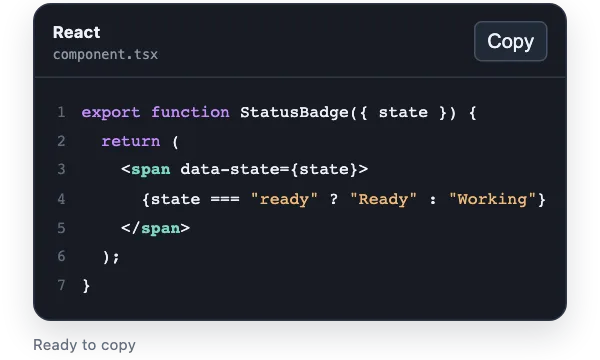
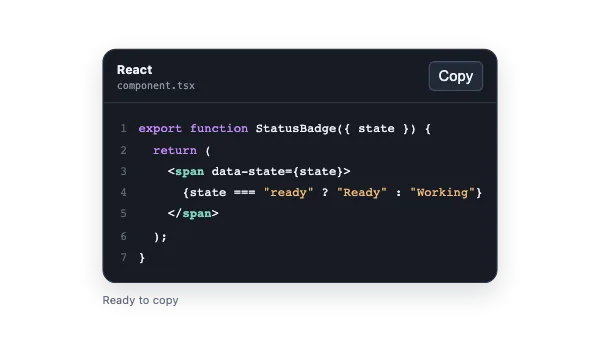
Balance dictionary specimen previews

diff --git a/demos/duration-picker.html b/demos/duration-picker.html
@@ -8,6 +8,7 @@
 </div>
 <style>
 .demo-duration-picker{--d-ink:#252932;--d-muted:#6b7280;--d-line:#dfe3e8;--d-accent:#3467d6;font:12px/1.4 system-ui,-apple-system,"PingFang SC","Microsoft YaHei",sans-serif;color:var(--d-ink);width:100%;max-width:390px}.demo-duration-picker *{box-sizing:border-box}.duration-card{padding:16px;border:1px solid var(--d-line);border-radius:12px;background:#fff;box-shadow:0 8px 20px rgba(30,40,60,.06)}.duration-head{display:flex;justify-content:space-between;align-items:baseline;margin-bottom:14px}.duration-head strong{font-size:13px}.duration-head span{color:var(--d-muted);font-size:10px}.duration-fields{display:flex;align-items:end;gap:8px}.duration-fields label{display:grid;gap:5px;flex:1}.duration-fields label>span{color:var(--d-muted);font-size:10px}.duration-fields input{width:100%;height:40px;padding:0 10px;border:1px solid var(--d-line);border-radius:8px;background:#fafbfc;color:var(--d-ink);font:600 17px/1 ui-monospace,SFMono-Regular,Menlo,monospace;font-variant-numeric:tabular-nums}.duration-fields input:focus-visible{outline:0;border-color:var(--d-accent);box-shadow:0 0 0 3px rgba(52,103,214,.15)}.duration-colon{padding-bottom:10px;color:var(--d-muted);font-weight:700}.duration-presets{display:flex;gap:6px;margin-top:12px}.duration-presets button{border:1px solid var(--d-line);border-radius:6px;background:#fff;color:var(--d-muted);padding:6px 10px;font:600 10px inherit;cursor:pointer;transition:background .16s,color .16s,border-color .16s}.duration-presets button:hover,.duration-presets button[aria-pressed=true]{border-color:#b7c8f3;background:#f3f6ff;color:var(--d-accent)}.duration-presets button:focus-visible{outline:2px solid var(--d-accent);outline-offset:2px}.duration-summary{display:flex;justify-content:space-between;gap:8px;margin-top:14px;padding-top:12px;border-top:1px solid #edf0f3;color:var(--d-muted);font-size:10px}.duration-summary strong{color:var(--d-ink);font-size:11px;font-variant-numeric:tabular-nums}@media(prefers-reduced-motion:reduce){.duration-presets button{transition:none}}
+@media (max-height:260px){.demo-duration-picker{transform:scale(.82);transform-origin:center;}}
 </style>
 <script>
 (function(){var root=document.currentScript.parentElement.querySelector('.demo-duration-picker'),h=root.querySelector('.dur-hours'),m=root.querySelector('.dur-minutes'),out=root.querySelector('.duration-summary strong'),presets=[].slice.call(root.querySelectorAll('.duration-presets button'));function zh(){return document.documentElement.getAttribute('data-lang-mode')!=='en'}function render(){var hours=Math.max(0,Math.min(12,parseInt(h.value||0,10))),mins=Math.max(0,Math.min(59,parseInt(m.value||0,10)));var total=hours*60+mins;h.value=Math.floor(total/60);m.value=total%60;out.textContent=zh()?(total===0?'0 分钟':(Math.floor(total/60)?Math.floor(total/60)+' 小时'+(total%60?' '+total%60+' 分钟':''):total+' 分钟')):(total===0?'0 minutes':(Math.floor(total/60)?Math.floor(total/60)+' hr'+(Math.floor(total/60)>1?'s':'')+(total%60?' '+total%60+' min':''):total+' minutes'));presets.forEach(function(p){p.setAttribute('aria-pressed',Number(p.dataset.min)===total?'true':'false')})} [h,m].forEach(function(i){i.addEventListener('input',render);i.addEventListener('blur',render)});presets.forEach(function(p){p.addEventListener('click',function(){var total=Number(p.dataset.min);h.value=Math.floor(total/60);m.value=total%60;render()})});document.addEventListener('learnui:languagechange',render);render()})();

diff --git a/demos/code-block.html b/demos/code-block.html
@@ -9,6 +9,7 @@
 </div>
 <style>
 .demo-code-block{--k-ink:#edf1f7;--k-muted:#8b96a8;--k-line:#303746;--k-accent:#77a7ff;font:12px/1.4 system-ui,-apple-system,"PingFang SC","Microsoft YaHei",sans-serif;width:100%;max-width:510px}.demo-code-block *{box-sizing:border-box}.code-card{overflow:hidden;border:1px solid var(--k-line);border-radius:12px;background:#171b23;box-shadow:0 9px 22px rgba(19,25,38,.15)}.code-head{display:flex;align-items:center;justify-content:space-between;padding:10px 12px;border-bottom:1px solid var(--k-line)}.code-head b,.code-head small{display:block}.code-head b{color:var(--k-ink);font-size:11px}.code-head small{margin-top:2px;color:var(--k-muted);font:9px ui-monospace,SFMono-Regular,Menlo,monospace}.code-copy{border:1px solid #465064;border-radius:5px;background:#222a37;color:var(--k-ink);padding:5px 8px;font:600 9px inherit;cursor:pointer}.code-copy:hover{border-color:#6e86ad;background:#2a3445}.code-copy:focus-visible{outline:2px solid var(--k-accent);outline-offset:2px}.code-wrap{overflow:auto;margin:0;padding:13px 0;color:var(--k-ink);font:11px/1.75 ui-monospace,SFMono-Regular,Menlo,monospace;tab-size:2;white-space:pre;scrollbar-color:#465064 transparent}.code-wrap code{display:block;min-width:max-content;padding-right:18px}.code-wrap .ln{display:inline-block;width:31px;padding-right:10px;color:#5e697a;text-align:right;user-select:none}.code-wrap em{color:#c58cff;font-style:normal}.code-wrap strong{color:#7dd6c1}.code-wrap i{color:#f0ba78;font-style:normal}.code-status{display:block;min-height:16px;margin-top:8px;color:#66707c;font-size:10px}
+@media (max-height:260px){.demo-code-block{transform:scale(.74);transform-origin:center;}}
 </style>
 <script>
 (function(){var root=document.currentScript.parentElement.querySelector('.demo-code-block'),copy=root.querySelector('.code-copy'),status=root.querySelector('.code-status'),code=root.querySelector('code');function zh(){return document.documentElement.getAttribute('data-lang-mode')!=='en'}function ready(){status.textContent=zh()?'可以复制':'Ready to copy';copy.textContent=zh()?'复制':'Copy'}copy.addEventListener('click',function(){var text=code.innerText.replace(/^\d+/gm,'').replace(/^\n/,'');if(navigator.clipboard&&navigator.clipboard.writeText)navigator.clipboard.writeText(text);status.textContent=zh()?'源代码已复制到剪贴板':'Copied source to clipboard';copy.textContent=zh()?'已复制':'Copied';setTimeout(ready,1500)});document.addEventListener('learnui:languagechange',ready)})();

diff --git a/demos/scroll-progress-indicator.html b/demos/scroll-progress-indicator.html
@@ -4,6 +4,7 @@
 </div>
 <style>
 .demo-scroll-progress{--s-ink:#20232a;--s-muted:#6d7580;--s-line:#dce1e8;--s-accent:#3467d6;font:12px/1.5 system-ui,-apple-system,"PingFang SC","Microsoft YaHei",sans-serif;color:var(--s-ink);width:100%;max-width:470px}.demo-scroll-progress *{box-sizing:border-box}.scroll-frame{position:relative;height:165px;overflow:auto;border:1px solid var(--s-line);border-radius:12px;background:#fff;scroll-behavior:smooth}.scroll-track{position:sticky;z-index:2;top:0;height:4px;background:#eef1f5}.scroll-fill{height:100%;width:100%;background:var(--s-accent);transform:scaleX(0);transform-origin:left center}.scroll-copy{padding:18px 18px 28px}.scroll-copy h3{margin:0 0 12px;font-size:16px;letter-spacing:-.02em}.scroll-copy p{margin:0 0 18px;color:var(--s-muted);font-size:11px;line-height:1.7}.scroll-meta{display:flex;justify-content:space-between;margin-top:8px;color:var(--s-muted);font-size:10px}.scroll-percent{color:var(--s-ink);font:600 10px ui-monospace,SFMono-Regular,Menlo,monospace;font-variant-numeric:tabular-nums}@media(prefers-reduced-motion:reduce){.scroll-frame{scroll-behavior:auto}}
+@media (max-height:260px){.demo-scroll-progress{transform:scale(.9);transform-origin:center;}}
 </style>
 <script>
 (function(){var root=document.currentScript.parentElement.querySelector('.demo-scroll-progress'),frame=root.querySelector('.scroll-frame'),fill=root.querySelector('.scroll-fill'),pct=root.querySelector('.scroll-percent'),raf=0;function update(){var max=frame.scrollHeight-frame.clientHeight,v=max>0?frame.scrollTop/max:1;fill.style.transform='scaleX('+v+')';pct.textContent=Math.round(v*100)+'%'}frame.addEventListener('scroll',function(){cancelAnimationFrame(raf);raf=requestAnimationFrame(update)},{passive:true});update()})();
